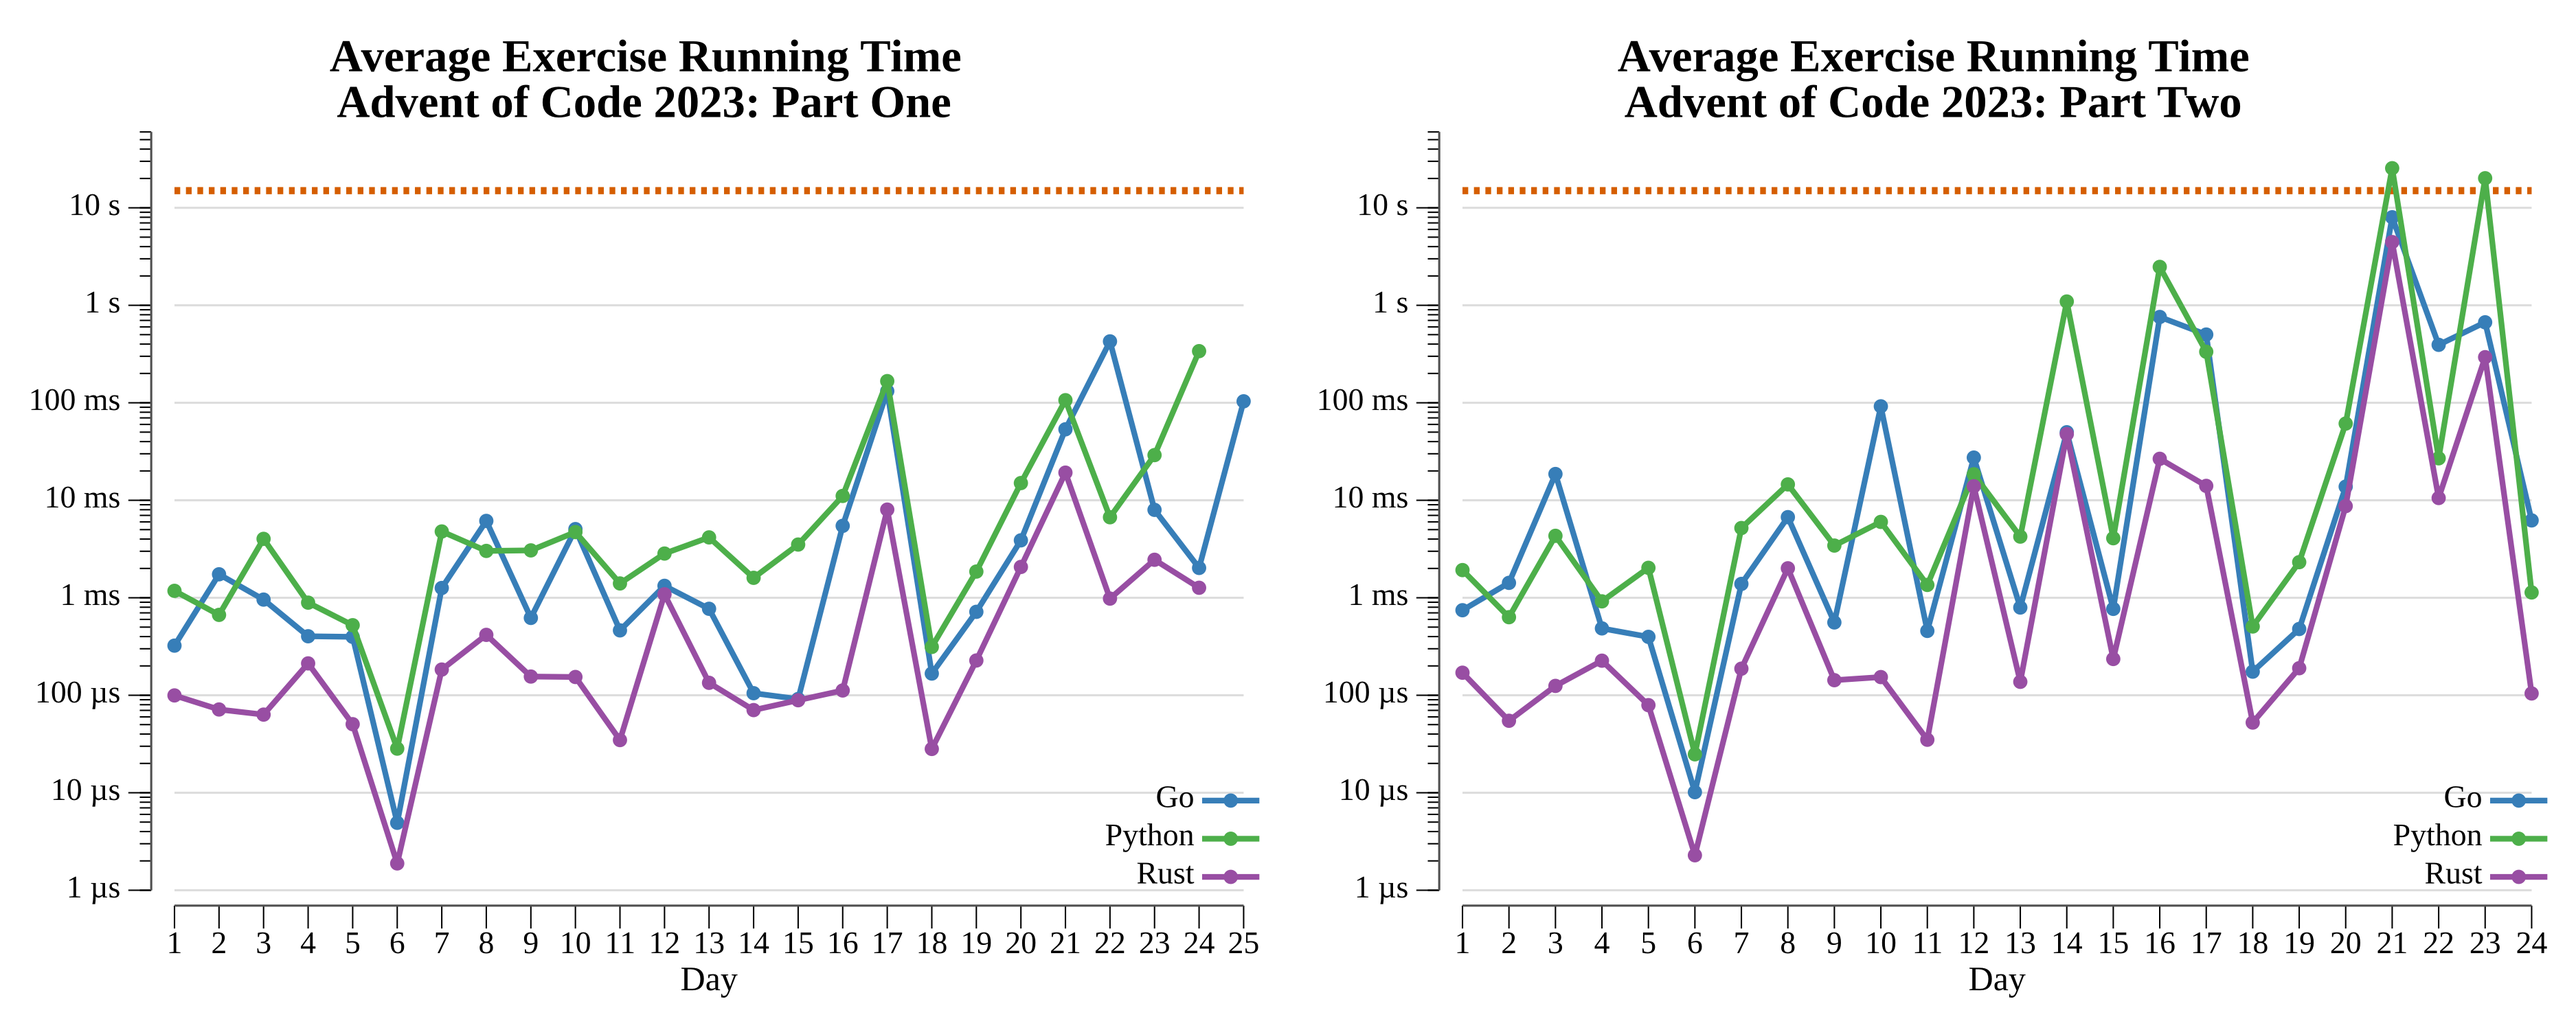
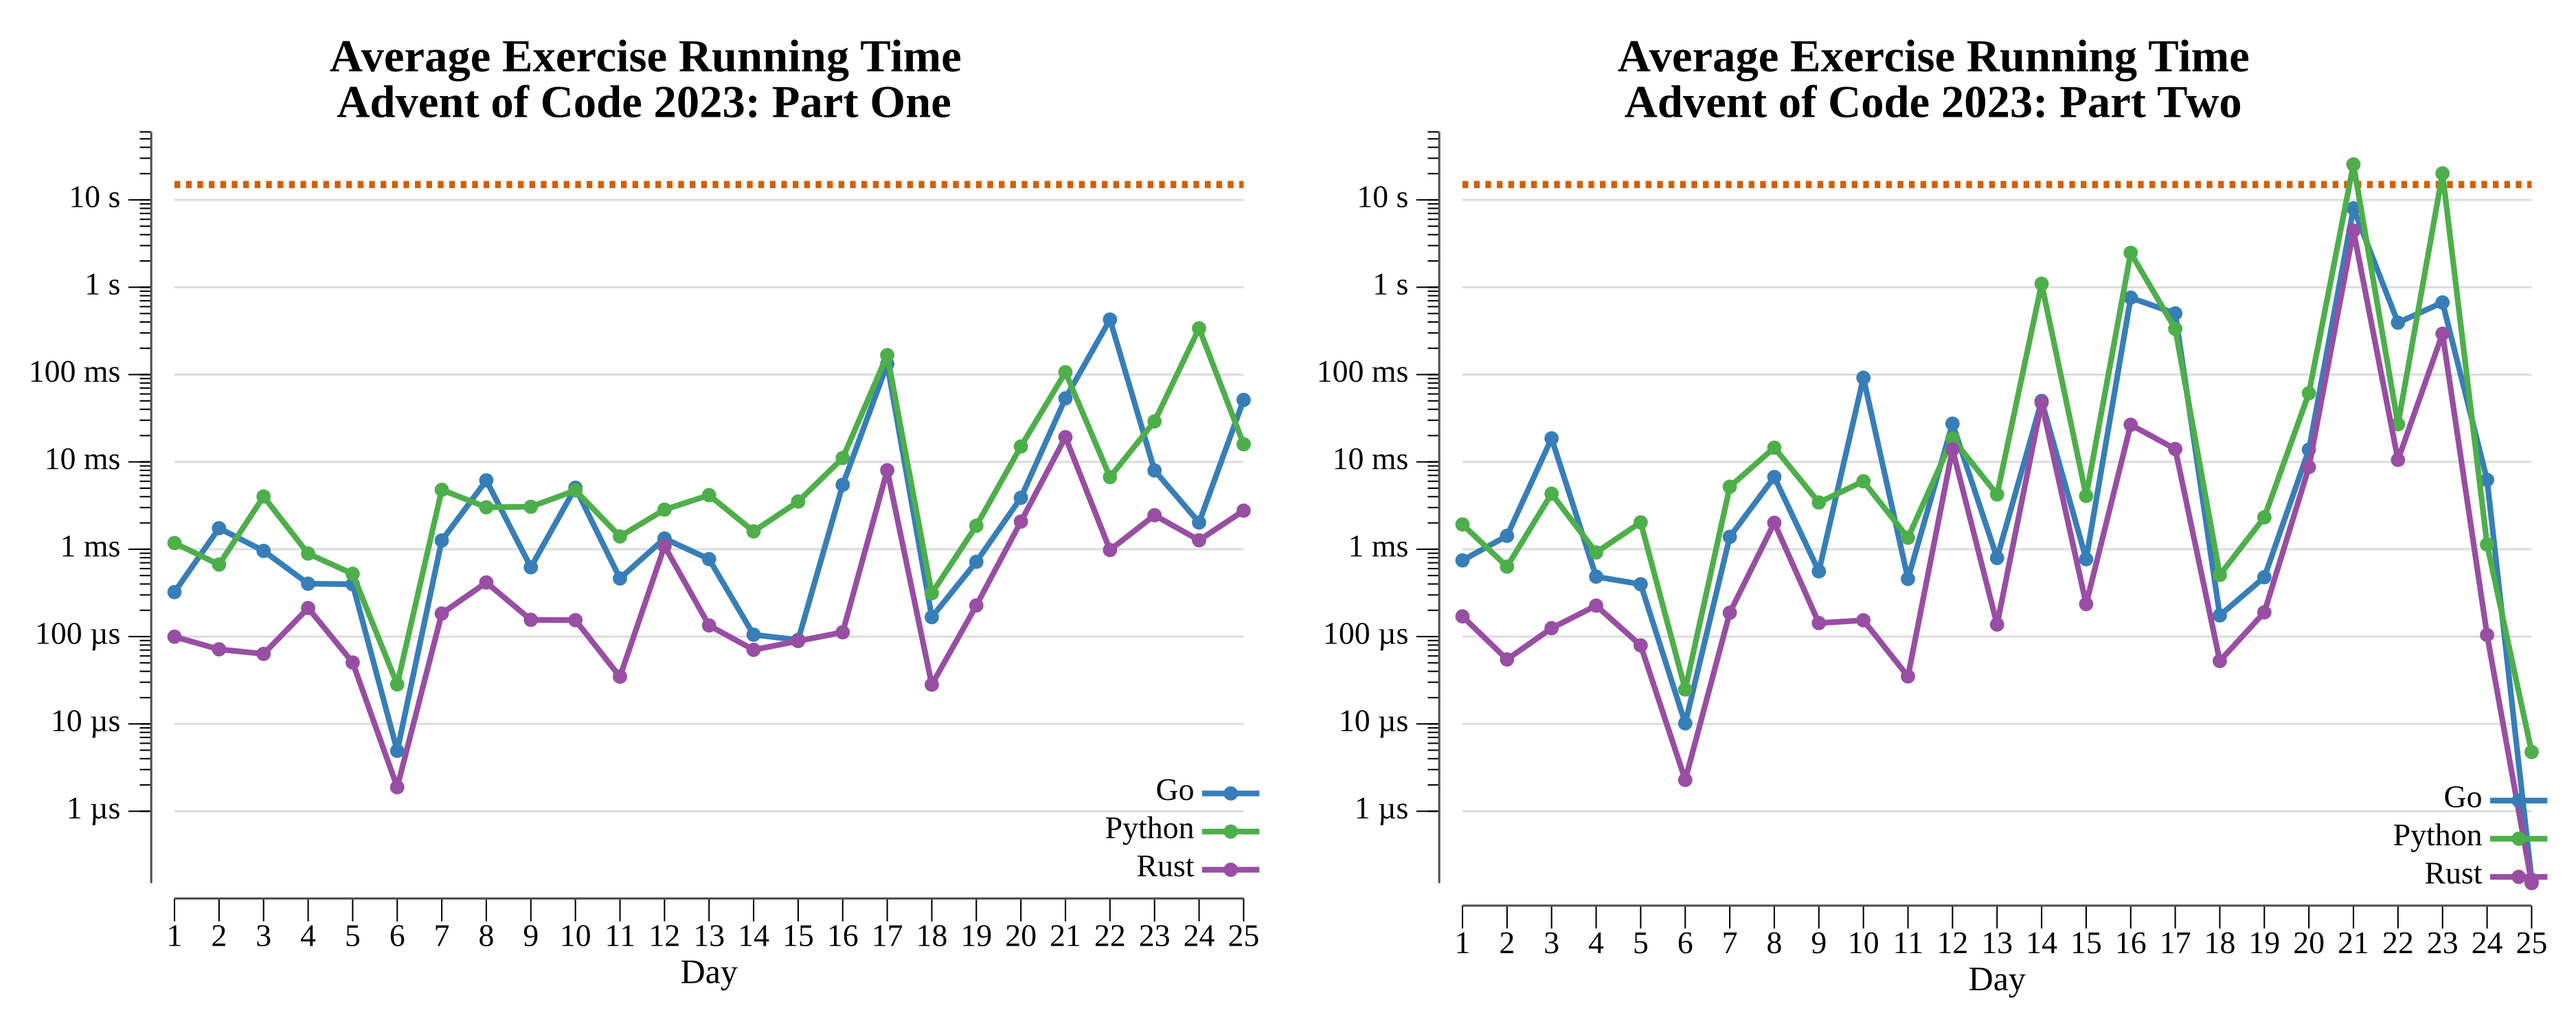
add rust/py to 2023 day 25

diff --git a/exercises/2023/25-snowverload/rs/src/solution.rs b/exercises/2023/25-snowverload/rs/src/solution.rs
@@ -1,0 +1,107 @@
+// Solution for Advent of Code 2023 day 25.
+//
+// The wiring diagram splits into two clusters joined by exactly three wires. We
+// find those wires by edge betweenness: a BFS from many sources marks each edge
+// on its shortest-path tree, and summed over sources the three bridge wires carry
+// by far the most traffic. Removing them and measuring one side's size (the other
+// is the remainder) gives the product the puzzle asks for. Day 25 has no second
+// puzzle, so part two returns the empty finale answer.
+
+use std::collections::{HashMap, VecDeque};
+
+/// Parse into an adjacency list over interned node indices.
+fn parse<'a>(input: &'a str) -> Vec<Vec<usize>> {
+    let mut ids: HashMap<&'a str, usize> = HashMap::new();
+    let mut adj: Vec<Vec<usize>> = Vec::new();
+
+    // Intern a name to its index, extending the adjacency list on first sight.
+    fn intern<'a>(name: &'a str, ids: &mut HashMap<&'a str, usize>, adj: &mut Vec<Vec<usize>>) -> usize {
+        if let Some(&i) = ids.get(name) {
+            return i;
+        }
+        let i = adj.len();
+        adj.push(Vec::new());
+        ids.insert(name, i);
+        i
+    }
+
+    for line in input.lines() {
+        let (left, rights) = line.split_once(": ").unwrap();
+        let a = intern(left, &mut ids, &mut adj);
+        for right in rights.split_whitespace() {
+            let b = intern(right, &mut ids, &mut adj);
+            adj[a].push(b);
+            adj[b].push(a);
+        }
+    }
+    adj
+}
+
+/// Number of edge-disjoint paths from `s` to `t` (max flow with unit capacities),
+/// plus the set of nodes still reachable from `s` in the residual graph.
+fn max_flow(adj: &[Vec<usize>], s: usize, t: usize) -> (u32, Vec<bool>) {
+    let n = adj.len();
+    // Residual capacity per directed edge, keyed (from, to).
+    let mut cap: HashMap<(usize, usize), i32> = HashMap::new();
+    for (u, nbrs) in adj.iter().enumerate() {
+        for &v in nbrs {
+            *cap.entry((u, v)).or_insert(0) += 1;
+        }
+    }
+
+    let mut flow = 0;
+    loop {
+        // BFS for an augmenting path in the residual graph.
+        let mut prev = vec![usize::MAX; n];
+        prev[s] = s;
+        let mut queue = VecDeque::from([s]);
+        while let Some(u) = queue.pop_front() {
+            if u == t {
+                break;
+            }
+            for &v in &adj[u] {
+                if prev[v] == usize::MAX && cap.get(&(u, v)).copied().unwrap_or(0) > 0 {
+                    prev[v] = u;
+                    queue.push_back(v);
+                }
+            }
+        }
+        if prev[t] == usize::MAX {
+            // No more augmenting paths: `prev` marks the source side of the cut.
+            let reachable: Vec<bool> = prev.iter().map(|&p| p != usize::MAX).collect();
+            return (flow, reachable);
+        }
+        // Push one unit along the found path.
+        let mut v = t;
+        while v != s {
+            let u = prev[v];
+            *cap.get_mut(&(u, v)).unwrap() -= 1;
+            *cap.entry((v, u)).or_insert(0) += 1;
+            v = u;
+        }
+        flow += 1;
+    }
+}
+
+pub fn part_one(input: &str) -> String {
+    let adj = parse(input);
+    let n = adj.len();
+
+    // The two clusters are joined by exactly three wires, so the max flow between
+    // any two nodes on opposite sides is 3. Fix the source at 0 and find a node
+    // whose min cut to it is 3; the residual-reachable set is one cluster.
+    for t in 1..n {
+        let (flow, reachable) = max_flow(&adj, 0, t);
+        if flow == 3 {
+            let size = reachable.iter().filter(|&&r| r).count();
+            return (size * (n - size)).to_string();
+        }
+    }
+
+    "0".to_string()
+}
+
+pub fn part_two(_input: &str) -> String {
+    // Day 25 grants the final star for completing the other days.
+    String::new()
+}

diff --git a/exercises/2023/25-snowverload/py/__init__.py b/exercises/2023/25-snowverload/py/__init__.py
@@ -1,0 +1,77 @@
+from collections import defaultdict, deque
+from typing import *
+from aocpy import BaseExercise
+
+
+def _parse(instr: str) -> tuple[list[list[int]], int]:
+    ids: dict[str, int] = {}
+    adj: list[list[int]] = []
+
+    def intern(name: str) -> int:
+        if name not in ids:
+            ids[name] = len(adj)
+            adj.append([])
+        return ids[name]
+
+    for line in instr.splitlines():
+        left, rights = line.split(": ")
+        a = intern(left)
+        for right in rights.split():
+            b = intern(right)
+            adj[a].append(b)
+            adj[b].append(a)
+    return adj, len(adj)
+
+
+def _max_flow(adj: list[list[int]], s: int, t: int) -> tuple[int, list[bool]]:
+    # Unit-capacity max flow from s to t via BFS augmenting paths. When no more
+    # paths exist, the residual-reachable set from s is the source side of the
+    # min cut.
+    cap: dict[tuple[int, int], int] = defaultdict(int)
+    for u, nbrs in enumerate(adj):
+        for v in nbrs:
+            cap[(u, v)] += 1
+
+    flow = 0
+    while True:
+        prev = {s: s}
+        queue = deque([s])
+        while queue:
+            u = queue.popleft()
+            if u == t:
+                break
+            for v in adj[u]:
+                if v not in prev and cap[(u, v)] > 0:
+                    prev[v] = u
+                    queue.append(v)
+        if t not in prev:
+            reachable = [i in prev for i in range(len(adj))]
+            return flow, reachable
+        # Push one unit along the augmenting path.
+        v = t
+        while v != s:
+            u = prev[v]
+            cap[(u, v)] -= 1
+            cap[(v, u)] += 1
+            v = u
+        flow += 1
+
+
+# Exercise for Advent of Code 2023 day 25.
+class Exercise(BaseExercise):
+    @staticmethod
+    def one(instr: str) -> int:
+        adj, n = _parse(instr)
+        # The clusters are joined by exactly three wires, so the min cut between
+        # two nodes on opposite sides is 3. Fix source 0 and find such a node.
+        for t in range(1, n):
+            flow, reachable = _max_flow(adj, 0, t)
+            if flow == 3:
+                size = sum(reachable)
+                return size * (n - size)
+        return 0
+
+    @staticmethod
+    def two(instr: str) -> str:
+        # Day 25's final star is granted for completing every other puzzle.
+        return ""

diff --git a/exercises/2023/25-snowverload/README.md b/exercises/2023/25-snowverload/README.md
@@ -30,8 +30,36 @@ Solving...
 
 ## Python
 
+The two clusters are joined by exactly three wires, so the min cut between nodes
+on opposite sides is 3. Fixing a source and running unit-capacity max flow (BFS
+augmenting paths) to each other node, the first that saturates at flow 3 splits
+the graph; the residual-reachable set is one cluster, and the sizes multiply. Day
+25 has no second puzzle, so part two returns the empty finale answer.
+
 ```text
-< section intentionally left blank >
+──────────────────────────────────────────
+           ADVENT OF CODE 2023
+           Day 25: Snowverload
+──────────────────────────────────────────
+
+Solving (Python)…
+1.0:  PASS            17.416ms
+```
+
+## Rust
+
+The same max-flow min-cut over interned node indices, with residual capacities in
+a `HashMap`. Because the answer is a genuine min cut rather than a betweenness
+heuristic, it is exact on both the small example and the full graph.
+
+```text
+──────────────────────────────────────────
+           ADVENT OF CODE 2023
+           Day 25: Snowverload
+──────────────────────────────────────────
+
+Solving (Rust)…
+1.0:  PASS             3.394ms
 ```
 
 ## 2023 Run Times

diff --git a/exercises/2023/README.md b/exercises/2023/README.md
@@ -30,7 +30,7 @@
 | [Day 22: Sand Slabs][rm22]                    |  ⭐⭐   | [Go][go22] · [Rust][rs22] · [Python][py22] |
 | [Day 23: A Long Walk][rm23]                   |  ⭐⭐   | [Go][go23] · [Rust][rs23] · [Python][py23] |
 | [Day 24: Never Tell Me The Odds][rm24]        |  ⭐⭐   | [Go][go24] · [Rust][rs24] · [Python][py24] |
-| [Day 25: Snowverload][rm25]                   |  ⭐⭐   | [Go][go25] |
+| [Day 25: Snowverload][rm25]                   |  ⭐⭐   | [Go][go25] · [Rust][rs25] · [Python][py25] |
 
 ## 2023 Run Times
 
@@ -168,3 +168,5 @@ Day       Time   Rank  Score       Time   Rank  Score
 [py24]: 24-neverTellMeTheOdds/py
 [rm25]: 25-snowverload/README.md
 [go25]: 25-snowverload/go
+[rs25]: 25-snowverload/rs
+[py25]: 25-snowverload/py
